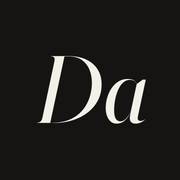
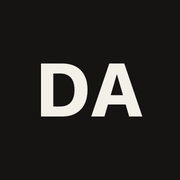
Add Tektur tech display face for key highlights
- Project names (chapters, case-study titles, next project, also shipped)
  set in Tektur uppercase; Midddleman keeps the full-width cut
- Hero facts become a stats band: OPEN, 4, 10,000+, AKURE as figures
  with supporting text underneath
- DA wordmark, chapter numbers, favicon and touch icon use the same face
- The emphasised phrase in each display headline (TO APP STORE.,
  THAT SHIPS., PEOPLE'S HANDS., TO LEADING MOBILE., NOBODY SCREENSHOTS)
  moves from serif italic to Tektur; the phrase stays on one line from
  600px up. Serif italic remains for taglines and pull quotes.

Changed region(s): [[0.1944, 0.3056, 0.8333, 0.6944]]

diff --git a/index.html b/index.html
@@ -24,10 +24,10 @@
 <link rel="apple-touch-icon" href="/assets/apple-touch-icon.png">
 <link rel="preconnect" href="https://fonts.googleapis.com">
 <link rel="preconnect" href="https://fonts.gstatic.com" crossorigin>
-<link rel="stylesheet" href="https://fonts.googleapis.com/css2?family=Geist:wght@300..700&family=Geist+Mono:wght@400;500&family=Instrument+Serif:ital@0;1&display=swap">
-<link rel="stylesheet" href="/assets/css/site.css?v=8b2077705b">
+<link rel="stylesheet" href="https://fonts.googleapis.com/css2?family=Geist:wght@300..700&family=Geist+Mono:wght@400;500&family=Instrument+Serif:ital@0;1&family=Tektur:wdth,wght@75..100,500..800&display=swap">
+<link rel="stylesheet" href="/assets/css/site.css?v=fa66dfbcfa">
 <script>document.documentElement.classList.add('js')</script>
-<script src="/assets/js/site.js?v=8b2077705b" defer></script>
+<script src="/assets/js/site.js?v=fa66dfbcfa" defer></script>
 <script type="application/ld+json">{"@context":"https://schema.org","@type":"Person","name":"Divine Ajayi","alternateName":"Ajayi Divine Iretomiwa","jobTitle":"Mobile Engineer","url":"https://divine-ajayi.vercel.app","address":{"@type":"PostalAddress","addressLocality":"Akure","addressCountry":"NG"},"sameAs":["https://linkedin.com/in/ajayi-divine","https://github.com/Justdivine7"],"knowsAbout":["Flutter","Dart","Kotlin","Mobile architecture","iOS","Android"]}</script>
 </head>
 <body class="home">
@@ -60,7 +60,7 @@
 <section class="hero" id="top" aria-labelledby="hero-title">
   <div class="wrap hero__grid">
     <p class="hero__eyebrow eyebrow" data-reveal><span>Divine Ajayi</span><span class="hero__sep" aria-hidden="true"></span><span>Mobile Engineer — Flutter &amp; Dart</span></p>
-    <h1 class="hero__title" id="hero-title" data-split><span class="w"><span style="--i:0">Mobile</span></span> <span class="w"><span style="--i:1">products,</span></span> <span class="w"><span style="--i:2">engineered</span></span> <span class="w"><span style="--i:3">from</span></span> <span class="w"><span style="--i:4">architecture</span></span> <span class="w"><span style="--i:5"><em>to</em></span></span> <span class="w"><span style="--i:6"><em>App</em></span></span> <span class="w"><span style="--i:7"><em>Store.</em></span></span></h1>
+    <h1 class="hero__title" id="hero-title" data-split><span class="w"><span style="--i:0">Mobile</span></span> <span class="w"><span style="--i:1">products,</span></span> <span class="w"><span style="--i:2">engineered</span></span> <span class="w"><span style="--i:3">from</span></span> <span class="w"><span style="--i:4">architecture</span></span> <span class="em-group"><span class="w"><span style="--i:5"><em>to</em></span></span> <span class="w"><span style="--i:6"><em>App</em></span></span> <span class="w"><span style="--i:7"><em>Store.</em></span></span></span></h1>
     <div class="hero__intro">
       <p class="hero__lede" data-reveal>I take production apps end to end — architecture, payments, real-time features, offline-ready data layers, and the release pipeline that gets them to real users on iOS and Android.</p>
       <div class="hero__actions" data-reveal>
@@ -72,15 +72,15 @@
       <a class="hero-shot hero-shot--back-r" href="/work/sanah/" data-parallax="-0.05" style="--d:0"><span class="visually-hidden">Sanah case study</span><figure class="shot shot--device "><div class="shot__frame"><img src="/assets/sanah/01-health-score.webp" alt="Sanah AI health score and personalized explanation" width="420" height="912" loading="eager" decoding="sync"></div></figure><span class="hero-shot__tag" aria-hidden="true">Sanah</span></a><a class="hero-shot hero-shot--back-l" href="/work/midddleman/" data-parallax="0.04" style="--d:1"><span class="visually-hidden">Midddleman case study</span><figure class="shot shot--poster "><div class="shot__frame"><img src="/assets/midddleman/02-buy-rmb.webp" alt="Buy RMB screen with today’s exchange rate and naira amount" width="300" height="650" loading="eager" decoding="sync"></div></figure><span class="hero-shot__tag" aria-hidden="true">Midddleman</span></a><a class="hero-shot hero-shot--front" href="/work/shmood/" data-parallax="-0.02" style="--d:2"><span class="visually-hidden">Shmood case study</span><figure class="shot shot--device "><div class="shot__frame"><img src="/assets/shmood/07-now-playing.webp" alt="Shmood now playing screen" width="420" height="912" loading="eager" decoding="sync" fetchpriority="high"></div></figure><span class="hero-shot__tag" aria-hidden="true">Shmood</span></a>
     </div>
     <dl class="hero__facts" data-reveal-group>
-      <div data-reveal><dt>Status</dt><dd><span class="status-dot" aria-hidden="true"></span>Open to international roles</dd></div>
-      <div data-reveal><dt>Live apps</dt><dd>4 on the App Store &amp; Google Play</dd></div><div data-reveal><dt>Installs</dt><dd>10,000+ across Midddleman &amp; Pawshauz</dd></div><div data-reveal><dt>Based in</dt><dd>Akure, Nigeria · Remote</dd></div>
+      <div data-reveal><dt>Status</dt><dd><span class="fact__n"><span class="status-dot" aria-hidden="true"></span>Open</span><span class="fact__v">to international roles</span></dd></div>
+      <div data-reveal><dt>Live apps</dt><dd><span class="fact__n">4</span> <span class="fact__v">on the App Store &amp; Google Play</span></dd></div><div data-reveal><dt>Installs</dt><dd><span class="fact__n">10,000+</span> <span class="fact__v">across Midddleman &amp; Pawshauz</span></dd></div><div data-reveal><dt>Based in</dt><dd><span class="fact__n">Akure</span> <span class="fact__v">Nigeria · open to remote</span></dd></div>
     </dl>
   </div>
 </section>
 <section class="work" id="work" aria-labelledby="work-title">
   <header class="wrap section-head section-head--work">
     <p class="eyebrow" data-reveal>Selected work · 2025 — 2026</p>
-    <h2 class="section-title" id="work-title" data-split><span class="w"><span style="--i:0">Products</span></span> <span class="w"><span style="--i:1">in</span></span> <span class="w"><span style="--i:2"><em>people’s</em></span></span> <span class="w"><span style="--i:3"><em>hands.</em></span></span></h2>
+    <h2 class="section-title" id="work-title" data-split><span class="w"><span style="--i:0">Products</span></span> <span class="w"><span style="--i:1">in</span></span> <span class="em-group"><span class="w"><span style="--i:2"><em>people’s</em></span></span> <span class="w"><span style="--i:3"><em>hands.</em></span></span></span></h2>
     <p class="section-lede" data-reveal>Fintech, marketplaces, delivery and AI — live in the stores or in testing ahead of launch. Where a product was built by a team, I say exactly which parts were mine.</p>
   </header>
   <article class="chapter chapter--posters stage" style="--c-bg:#0F2419;--c-fg:#EEF2E6;--c-muted:#A9B8A4;--c-accent:#B9E35C;--c-panel:#183527" aria-labelledby="t-midddleman">
@@ -319,7 +319,7 @@
   <div class="wrap">
     <header class="section-head">
       <p class="eyebrow" data-reveal>Experience</p>
-      <h2 class="section-title" id="exp-title" data-split><span class="w"><span style="--i:0">From</span></span> <span class="w"><span style="--i:1">internship</span></span> <span class="w"><span style="--i:2">finalist</span></span> <span class="w"><span style="--i:3"><em>to</em></span></span> <span class="w"><span style="--i:4"><em>leading</em></span></span> <span class="w"><span style="--i:5"><em>mobile.</em></span></span></h2>
+      <h2 class="section-title" id="exp-title" data-split><span class="w"><span style="--i:0">From</span></span> <span class="w"><span style="--i:1">internship</span></span> <span class="w"><span style="--i:2">finalist</span></span> <span class="em-group"><span class="w"><span style="--i:3"><em>to</em></span></span> <span class="w"><span style="--i:4"><em>leading</em></span></span> <span class="w"><span style="--i:5"><em>mobile.</em></span></span></span></h2>
       <p class="section-lede" data-reveal>Six roles since February 2025 — from intern to mentor to lead, each with more of the product, and more of the release, in my hands.</p>
     </header>
     <figure class="tl" data-reveal style="--cols:22">
@@ -408,7 +408,7 @@
   <div class="wrap">
     <div class="about__grid">
       <p class="eyebrow" data-reveal>About</p>
-      <h2 class="about__statement" id="about-title" data-split><span class="w"><span style="--i:0">I</span></span> <span class="w"><span style="--i:1">care</span></span> <span class="w"><span style="--i:2">most</span></span> <span class="w"><span style="--i:3">about</span></span> <span class="w"><span style="--i:4">the</span></span> <span class="w"><span style="--i:5">parts</span></span> <span class="w"><span style="--i:6">of</span></span> <span class="w"><span style="--i:7">an</span></span> <span class="w"><span style="--i:8">app</span></span> <span class="w"><span style="--i:8"><em>nobody</em></span></span> <span class="w"><span style="--i:9"><em>screenshots</em></span></span> <span class="w"><span style="--i:10">—</span></span> <span class="w"><span style="--i:11">the</span></span> <span class="w"><span style="--i:12">architecture,</span></span> <span class="w"><span style="--i:13">the</span></span> <span class="w"><span style="--i:14">failure</span></span> <span class="w"><span style="--i:15">states,</span></span> <span class="w"><span style="--i:16">the</span></span> <span class="w"><span style="--i:17">release.</span></span></h2>
+      <h2 class="about__statement" id="about-title" data-split><span class="w"><span style="--i:0">I</span></span> <span class="w"><span style="--i:1">care</span></span> <span class="w"><span style="--i:2">most</span></span> <span class="w"><span style="--i:3">about</span></span> <span class="w"><span style="--i:4">the</span></span> <span class="w"><span style="--i:5">parts</span></span> <span class="w"><span style="--i:6">of</span></span> <span class="w"><span style="--i:7">an</span></span> <span class="w"><span style="--i:8">app</span></span> <span class="em-group"><span class="w"><span style="--i:8"><em>nobody</em></span></span> <span class="w"><span style="--i:9"><em>screenshots</em></span></span></span> <span class="w"><span style="--i:10">—</span></span> <span class="w"><span style="--i:11">the</span></span> <span class="w"><span style="--i:12">architecture,</span></span> <span class="w"><span style="--i:13">the</span></span> <span class="w"><span style="--i:14">failure</span></span> <span class="w"><span style="--i:15">states,</span></span> <span class="w"><span style="--i:16">the</span></span> <span class="w"><span style="--i:17">release.</span></span></h2>
       <div class="about__bio" data-reveal-group>
         <p data-reveal>I’m a Flutter and Dart engineer based in Akure, Nigeria. Today I lead mobile development at Midddleman Technologies, where I own the release pipeline and the layers that keep the customer and agent apps dependable. Before that I was the sole mobile engineer at Jamforte Technologies, shipping Pawshauz and Difamer, and I’ve built delivery and sports apps on contract. In 2026 I went back to the HNG Internship as a Flutter mentor.</p>
         <p data-reveal>Alongside that I build AI-native products — Shmood and Sanah — to push on what a mobile app can do with voice, vision and language models, without letting a model make things up.</p>
@@ -431,7 +431,7 @@
 <section class="contact" id="contact" aria-labelledby="contact-title">
   <div class="wrap">
     <p class="eyebrow eyebrow--light" data-reveal>Contact</p>
-    <h2 class="contact__title" id="contact-title" data-split><span class="w"><span style="--i:0">Let’s</span></span> <span class="w"><span style="--i:1">build</span></span> <span class="w"><span style="--i:2">something</span></span> <span class="w"><span style="--i:3"><em>that</em></span></span> <span class="w"><span style="--i:4"><em>ships.</em></span></span></h2>
+    <h2 class="contact__title" id="contact-title" data-split><span class="w"><span style="--i:0">Let’s</span></span> <span class="w"><span style="--i:1">build</span></span> <span class="w"><span style="--i:2">something</span></span> <span class="em-group"><span class="w"><span style="--i:3"><em>that</em></span></span> <span class="w"><span style="--i:4"><em>ships.</em></span></span></span></h2>
     <div class="contact__grid">
       <p class="contact__lede" data-reveal>I’m open to meaningful engineering roles — international and remote included — and to collaborating on mobile products that need to be built well and keep working once they ship.</p>
       <div class="contact__primary" data-reveal>

diff --git a/assets/css/site.css b/assets/css/site.css
@@ -1200,3 +1200,68 @@ body.case-page.menu-open .site-header .menu-toggle { background: var(--ink); col
   .next-case__tag { font-size: 1.125rem; }
   .menu__list a { font-size: clamp(2rem, 9vw, 2.75rem); }
 }
+
+/* ==========================================================================
+   Tech display face (Tektur) — reserved for the things that matter most:
+   product names, headline figures, the wordmark and chapter numbers.
+   ========================================================================== */
+:root { --tech: 'Tektur', 'Eurostile', 'Bank Gothic', var(--sans); }
+
+.wordmark__mark { font-family: var(--tech); font-style: normal; font-weight: 700; font-size: 0.8125rem; letter-spacing: 0.02em; font-stretch: 90%; }
+
+/* product names */
+.chapter__title, .case-hero__title, .next-case__name, .more__name {
+  font-family: var(--tech);
+  font-weight: 700;
+  font-stretch: 85%;
+  text-transform: uppercase;
+  letter-spacing: -0.01em;
+}
+.chapter__title { font-size: clamp(2.5rem, 5.8vw, 5.25rem); line-height: 0.9; }
+.chapter--posters .chapter__title { font-size: clamp(3.25rem, 11.5vw, 10.5rem); line-height: 0.84; font-stretch: 100%; letter-spacing: -0.02em; }
+.case-hero__title { font-size: clamp(3rem, 9.5vw, 9rem); line-height: 0.86; }
+.next-case__name { font-size: clamp(2.5rem, 7.5vw, 7rem); line-height: 0.9; }
+.more__name { font-weight: 600; font-size: clamp(1.625rem, 3vw, 2.5rem); letter-spacing: 0; }
+.chapter__title a { background-position: 0 100%; }
+
+/* chapter numbers */
+.chapter__index { font-family: var(--tech); font-weight: 700; font-size: 0.9375rem; letter-spacing: 0.02em; color: var(--c-accent); }
+.chapter--companion .chapter__index, .chapter--pipeline .chapter__index, .chapter--strip .chapter__index, .chapter--triptych .chapter__index { color: var(--c-fg); }
+
+/* headline figures */
+.hero__facts dd { display: grid; gap: 0.2rem; align-items: start; }
+.fact__n {
+  display: inline-flex; align-items: center;
+  font-family: var(--tech); font-weight: 700; font-stretch: 90%;
+  font-size: clamp(1.75rem, 2.6vw, 2.5rem); line-height: 1; letter-spacing: -0.01em;
+  text-transform: uppercase; font-variant-numeric: tabular-nums;
+}
+.fact__n .status-dot { width: 10px; height: 10px; margin-right: 0.45em; }
+.fact__v { font-weight: 400; font-size: 0.875rem; color: var(--ink-2); }
+
+@media (max-width: 599px) {
+  .chapter__title { font-size: clamp(2rem, 9.5vw, 2.5rem); }
+  .chapter--posters .chapter__title { font-size: clamp(2.625rem, 13vw, 3.375rem); }
+  .case-hero__title { font-size: clamp(2.375rem, 12vw, 3.125rem); }
+  .next-case__name { font-size: clamp(2rem, 10vw, 2.75rem); }
+  .more__name { font-size: 1.5rem; }
+  .fact__n { font-size: 1.625rem; }
+  .fact__v { font-size: 0.8125rem; }
+}
+
+/* Headline accents: the emphasised phrase of each display headline lands in the tech face.
+   (The serif italic stays for taglines, pull quotes and "next project" lines.) */
+.hero__title em, .section-title em, .contact__title em, .about__statement em {
+  font-family: var(--tech);
+  font-style: normal;
+  font-weight: 700;
+  font-stretch: 85%;
+  text-transform: uppercase;
+  letter-spacing: -0.005em;
+  font-size: 0.9em;
+}
+.hero__title em { color: var(--ink); }
+.section-title em { color: var(--ink); }
+.contact__title em { color: #e9b38f; }
+.about__statement em { font-size: 0.86em; color: var(--accent); }
+@media (min-width: 600px) { .em-group { white-space: nowrap; } }

diff --git a/work/midddleman-agent/index.html b/work/midddleman-agent/index.html
@@ -24,10 +24,10 @@
 <link rel="apple-touch-icon" href="/assets/apple-touch-icon.png">
 <link rel="preconnect" href="https://fonts.googleapis.com">
 <link rel="preconnect" href="https://fonts.gstatic.com" crossorigin>
-<link rel="stylesheet" href="https://fonts.googleapis.com/css2?family=Geist:wght@300..700&family=Geist+Mono:wght@400;500&family=Instrument+Serif:ital@0;1&display=swap">
-<link rel="stylesheet" href="/assets/css/site.css?v=8b2077705b">
+<link rel="stylesheet" href="https://fonts.googleapis.com/css2?family=Geist:wght@300..700&family=Geist+Mono:wght@400;500&family=Instrument+Serif:ital@0;1&family=Tektur:wdth,wght@75..100,500..800&display=swap">
+<link rel="stylesheet" href="/assets/css/site.css?v=fa66dfbcfa">
 <script>document.documentElement.classList.add('js')</script>
-<script src="/assets/js/site.js?v=8b2077705b" defer></script>
+<script src="/assets/js/site.js?v=fa66dfbcfa" defer></script>
 
 </head>
 <body class="case-page case-page--light" style="--c-bg:#E4EBD2;--c-fg:#13241A;--c-muted:#4D5E4F;--c-accent:#2F6B3E;--c-panel:#D5E1BC;--native:300px">
@@ -139,7 +139,7 @@
 <section class="contact" id="contact" aria-labelledby="contact-title">
   <div class="wrap">
     <p class="eyebrow eyebrow--light" data-reveal>Contact</p>
-    <h2 class="contact__title" id="contact-title" data-split><span class="w"><span style="--i:0">Let’s</span></span> <span class="w"><span style="--i:1">build</span></span> <span class="w"><span style="--i:2">something</span></span> <span class="w"><span style="--i:3"><em>that</em></span></span> <span class="w"><span style="--i:4"><em>ships.</em></span></span></h2>
+    <h2 class="contact__title" id="contact-title" data-split><span class="w"><span style="--i:0">Let’s</span></span> <span class="w"><span style="--i:1">build</span></span> <span class="w"><span style="--i:2">something</span></span> <span class="em-group"><span class="w"><span style="--i:3"><em>that</em></span></span> <span class="w"><span style="--i:4"><em>ships.</em></span></span></span></h2>
     <div class="contact__grid">
       <p class="contact__lede" data-reveal>I’m open to meaningful engineering roles — international and remote included — and to collaborating on mobile products that need to be built well and keep working once they ship.</p>
       <div class="contact__primary" data-reveal>

diff --git a/work/ofxpress/index.html b/work/ofxpress/index.html
@@ -24,10 +24,10 @@
 <link rel="apple-touch-icon" href="/assets/apple-touch-icon.png">
 <link rel="preconnect" href="https://fonts.googleapis.com">
 <link rel="preconnect" href="https://fonts.gstatic.com" crossorigin>
-<link rel="stylesheet" href="https://fonts.googleapis.com/css2?family=Geist:wght@300..700&family=Geist+Mono:wght@400;500&family=Instrument+Serif:ital@0;1&display=swap">
-<link rel="stylesheet" href="/assets/css/site.css?v=8b2077705b">
+<link rel="stylesheet" href="https://fonts.googleapis.com/css2?family=Geist:wght@300..700&family=Geist+Mono:wght@400;500&family=Instrument+Serif:ital@0;1&family=Tektur:wdth,wght@75..100,500..800&display=swap">
+<link rel="stylesheet" href="/assets/css/site.css?v=fa66dfbcfa">
 <script>document.documentElement.classList.add('js')</script>
-<script src="/assets/js/site.js?v=8b2077705b" defer></script>
+<script src="/assets/js/site.js?v=fa66dfbcfa" defer></script>
 
 </head>
 <body class="case-page case-page--light" style="--c-bg:#ECE6F2;--c-fg:#1C1524;--c-muted:#62566F;--c-accent:#6D3FB0;--c-panel:#E0D7EA;--native:180px">
@@ -139,7 +139,7 @@
 <section class="contact" id="contact" aria-labelledby="contact-title">
   <div class="wrap">
     <p class="eyebrow eyebrow--light" data-reveal>Contact</p>
-    <h2 class="contact__title" id="contact-title" data-split><span class="w"><span style="--i:0">Let’s</span></span> <span class="w"><span style="--i:1">build</span></span> <span class="w"><span style="--i:2">something</span></span> <span class="w"><span style="--i:3"><em>that</em></span></span> <span class="w"><span style="--i:4"><em>ships.</em></span></span></h2>
+    <h2 class="contact__title" id="contact-title" data-split><span class="w"><span style="--i:0">Let’s</span></span> <span class="w"><span style="--i:1">build</span></span> <span class="w"><span style="--i:2">something</span></span> <span class="em-group"><span class="w"><span style="--i:3"><em>that</em></span></span> <span class="w"><span style="--i:4"><em>ships.</em></span></span></span></h2>
     <div class="contact__grid">
       <p class="contact__lede" data-reveal>I’m open to meaningful engineering roles — international and remote included — and to collaborating on mobile products that need to be built well and keep working once they ship.</p>
       <div class="contact__primary" data-reveal>

diff --git a/work/pawshauz/index.html b/work/pawshauz/index.html
@@ -24,10 +24,10 @@
 <link rel="apple-touch-icon" href="/assets/apple-touch-icon.png">
 <link rel="preconnect" href="https://fonts.googleapis.com">
 <link rel="preconnect" href="https://fonts.gstatic.com" crossorigin>
-<link rel="stylesheet" href="https://fonts.googleapis.com/css2?family=Geist:wght@300..700&family=Geist+Mono:wght@400;500&family=Instrument+Serif:ital@0;1&display=swap">
-<link rel="stylesheet" href="/assets/css/site.css?v=8b2077705b">
+<link rel="stylesheet" href="https://fonts.googleapis.com/css2?family=Geist:wght@300..700&family=Geist+Mono:wght@400;500&family=Instrument+Serif:ital@0;1&family=Tektur:wdth,wght@75..100,500..800&display=swap">
+<link rel="stylesheet" href="/assets/css/site.css?v=fa66dfbcfa">
 <script>document.documentElement.classList.add('js')</script>
-<script src="/assets/js/site.js?v=8b2077705b" defer></script>
+<script src="/assets/js/site.js?v=fa66dfbcfa" defer></script>
 
 </head>
 <body class="case-page case-page--light" style="--c-bg:#F2E6D6;--c-fg:#1E1712;--c-muted:#6C5D50;--c-accent:#D9581E;--c-panel:#E8D7C2;--native:180px">
@@ -142,7 +142,7 @@
 <section class="contact" id="contact" aria-labelledby="contact-title">
   <div class="wrap">
     <p class="eyebrow eyebrow--light" data-reveal>Contact</p>
-    <h2 class="contact__title" id="contact-title" data-split><span class="w"><span style="--i:0">Let’s</span></span> <span class="w"><span style="--i:1">build</span></span> <span class="w"><span style="--i:2">something</span></span> <span class="w"><span style="--i:3"><em>that</em></span></span> <span class="w"><span style="--i:4"><em>ships.</em></span></span></h2>
+    <h2 class="contact__title" id="contact-title" data-split><span class="w"><span style="--i:0">Let’s</span></span> <span class="w"><span style="--i:1">build</span></span> <span class="w"><span style="--i:2">something</span></span> <span class="em-group"><span class="w"><span style="--i:3"><em>that</em></span></span> <span class="w"><span style="--i:4"><em>ships.</em></span></span></span></h2>
     <div class="contact__grid">
       <p class="contact__lede" data-reveal>I’m open to meaningful engineering roles — international and remote included — and to collaborating on mobile products that need to be built well and keep working once they ship.</p>
       <div class="contact__primary" data-reveal>

diff --git a/work/sanah/index.html b/work/sanah/index.html
@@ -24,10 +24,10 @@
 <link rel="apple-touch-icon" href="/assets/apple-touch-icon.png">
 <link rel="preconnect" href="https://fonts.googleapis.com">
 <link rel="preconnect" href="https://fonts.gstatic.com" crossorigin>
-<link rel="stylesheet" href="https://fonts.googleapis.com/css2?family=Geist:wght@300..700&family=Geist+Mono:wght@400;500&family=Instrument+Serif:ital@0;1&display=swap">
-<link rel="stylesheet" href="/assets/css/site.css?v=8b2077705b">
+<link rel="stylesheet" href="https://fonts.googleapis.com/css2?family=Geist:wght@300..700&family=Geist+Mono:wght@400;500&family=Instrument+Serif:ital@0;1&family=Tektur:wdth,wght@75..100,500..800&display=swap">
+<link rel="stylesheet" href="/assets/css/site.css?v=fa66dfbcfa">
 <script>document.documentElement.classList.add('js')</script>
-<script src="/assets/js/site.js?v=8b2077705b" defer></script>
+<script src="/assets/js/site.js?v=fa66dfbcfa" defer></script>
 
 </head>
 <body class="case-page case-page--light" style="--c-bg:#EDE0CF;--c-fg:#23170F;--c-muted:#6E5A49;--c-accent:#C2501F;--c-panel:#E2D0BA;--native:420px">
@@ -142,7 +142,7 @@
 <section class="contact" id="contact" aria-labelledby="contact-title">
   <div class="wrap">
     <p class="eyebrow eyebrow--light" data-reveal>Contact</p>
-    <h2 class="contact__title" id="contact-title" data-split><span class="w"><span style="--i:0">Let’s</span></span> <span class="w"><span style="--i:1">build</span></span> <span class="w"><span style="--i:2">something</span></span> <span class="w"><span style="--i:3"><em>that</em></span></span> <span class="w"><span style="--i:4"><em>ships.</em></span></span></h2>
+    <h2 class="contact__title" id="contact-title" data-split><span class="w"><span style="--i:0">Let’s</span></span> <span class="w"><span style="--i:1">build</span></span> <span class="w"><span style="--i:2">something</span></span> <span class="em-group"><span class="w"><span style="--i:3"><em>that</em></span></span> <span class="w"><span style="--i:4"><em>ships.</em></span></span></span></h2>
     <div class="contact__grid">
       <p class="contact__lede" data-reveal>I’m open to meaningful engineering roles — international and remote included — and to collaborating on mobile products that need to be built well and keep working once they ship.</p>
       <div class="contact__primary" data-reveal>

diff --git a/work/midddleman/index.html b/work/midddleman/index.html
@@ -24,10 +24,10 @@
 <link rel="apple-touch-icon" href="/assets/apple-touch-icon.png">
 <link rel="preconnect" href="https://fonts.googleapis.com">
 <link rel="preconnect" href="https://fonts.gstatic.com" crossorigin>
-<link rel="stylesheet" href="https://fonts.googleapis.com/css2?family=Geist:wght@300..700&family=Geist+Mono:wght@400;500&family=Instrument+Serif:ital@0;1&display=swap">
-<link rel="stylesheet" href="/assets/css/site.css?v=8b2077705b">
+<link rel="stylesheet" href="https://fonts.googleapis.com/css2?family=Geist:wght@300..700&family=Geist+Mono:wght@400;500&family=Instrument+Serif:ital@0;1&family=Tektur:wdth,wght@75..100,500..800&display=swap">
+<link rel="stylesheet" href="/assets/css/site.css?v=fa66dfbcfa">
 <script>document.documentElement.classList.add('js')</script>
-<script src="/assets/js/site.js?v=8b2077705b" defer></script>
+<script src="/assets/js/site.js?v=fa66dfbcfa" defer></script>
 
 </head>
 <body class="case-page case-page--dark" style="--c-bg:#0F2419;--c-fg:#EEF2E6;--c-muted:#A9B8A4;--c-accent:#B9E35C;--c-panel:#183527;--native:300px">
@@ -139,7 +139,7 @@
 <section class="contact" id="contact" aria-labelledby="contact-title">
   <div class="wrap">
     <p class="eyebrow eyebrow--light" data-reveal>Contact</p>
-    <h2 class="contact__title" id="contact-title" data-split><span class="w"><span style="--i:0">Let’s</span></span> <span class="w"><span style="--i:1">build</span></span> <span class="w"><span style="--i:2">something</span></span> <span class="w"><span style="--i:3"><em>that</em></span></span> <span class="w"><span style="--i:4"><em>ships.</em></span></span></h2>
+    <h2 class="contact__title" id="contact-title" data-split><span class="w"><span style="--i:0">Let’s</span></span> <span class="w"><span style="--i:1">build</span></span> <span class="w"><span style="--i:2">something</span></span> <span class="em-group"><span class="w"><span style="--i:3"><em>that</em></span></span> <span class="w"><span style="--i:4"><em>ships.</em></span></span></span></h2>
     <div class="contact__grid">
       <p class="contact__lede" data-reveal>I’m open to meaningful engineering roles — international and remote included — and to collaborating on mobile products that need to be built well and keep working once they ship.</p>
       <div class="contact__primary" data-reveal>

diff --git a/work/shmood/index.html b/work/shmood/index.html
@@ -24,10 +24,10 @@
 <link rel="apple-touch-icon" href="/assets/apple-touch-icon.png">
 <link rel="preconnect" href="https://fonts.googleapis.com">
 <link rel="preconnect" href="https://fonts.gstatic.com" crossorigin>
-<link rel="stylesheet" href="https://fonts.googleapis.com/css2?family=Geist:wght@300..700&family=Geist+Mono:wght@400;500&family=Instrument+Serif:ital@0;1&display=swap">
-<link rel="stylesheet" href="/assets/css/site.css?v=8b2077705b">
+<link rel="stylesheet" href="https://fonts.googleapis.com/css2?family=Geist:wght@300..700&family=Geist+Mono:wght@400;500&family=Instrument+Serif:ital@0;1&family=Tektur:wdth,wght@75..100,500..800&display=swap">
+<link rel="stylesheet" href="/assets/css/site.css?v=fa66dfbcfa">
 <script>document.documentElement.classList.add('js')</script>
-<script src="/assets/js/site.js?v=8b2077705b" defer></script>
+<script src="/assets/js/site.js?v=fa66dfbcfa" defer></script>
 
 </head>
 <body class="case-page case-page--dark" style="--c-bg:#0A0E18;--c-fg:#E8EAF2;--c-muted:#9298AE;--c-accent:#9DB0FF;--c-panel:#131A2B;--native:420px">
@@ -142,7 +142,7 @@
 <section class="contact" id="contact" aria-labelledby="contact-title">
   <div class="wrap">
     <p class="eyebrow eyebrow--light" data-reveal>Contact</p>
-    <h2 class="contact__title" id="contact-title" data-split><span class="w"><span style="--i:0">Let’s</span></span> <span class="w"><span style="--i:1">build</span></span> <span class="w"><span style="--i:2">something</span></span> <span class="w"><span style="--i:3"><em>that</em></span></span> <span class="w"><span style="--i:4"><em>ships.</em></span></span></h2>
+    <h2 class="contact__title" id="contact-title" data-split><span class="w"><span style="--i:0">Let’s</span></span> <span class="w"><span style="--i:1">build</span></span> <span class="w"><span style="--i:2">something</span></span> <span class="em-group"><span class="w"><span style="--i:3"><em>that</em></span></span> <span class="w"><span style="--i:4"><em>ships.</em></span></span></span></h2>
     <div class="contact__grid">
       <p class="contact__lede" data-reveal>I’m open to meaningful engineering roles — international and remote included — and to collaborating on mobile products that need to be built well and keep working once they ship.</p>
       <div class="contact__primary" data-reveal>

diff --git a/404.html b/404.html
@@ -24,10 +24,10 @@
 <link rel="apple-touch-icon" href="/assets/apple-touch-icon.png">
 <link rel="preconnect" href="https://fonts.googleapis.com">
 <link rel="preconnect" href="https://fonts.gstatic.com" crossorigin>
-<link rel="stylesheet" href="https://fonts.googleapis.com/css2?family=Geist:wght@300..700&family=Geist+Mono:wght@400;500&family=Instrument+Serif:ital@0;1&display=swap">
-<link rel="stylesheet" href="/assets/css/site.css?v=8b2077705b">
+<link rel="stylesheet" href="https://fonts.googleapis.com/css2?family=Geist:wght@300..700&family=Geist+Mono:wght@400;500&family=Instrument+Serif:ital@0;1&family=Tektur:wdth,wght@75..100,500..800&display=swap">
+<link rel="stylesheet" href="/assets/css/site.css?v=fa66dfbcfa">
 <script>document.documentElement.classList.add('js')</script>
-<script src="/assets/js/site.js?v=8b2077705b" defer></script>
+<script src="/assets/js/site.js?v=fa66dfbcfa" defer></script>
 
 </head>
 <body class="nf-page">

diff --git a/scripts/og.py b/scripts/og.py
@@ -55,8 +55,8 @@ img.save(A('og.png'), optimize=True)
 
 icon = Image.new('RGB', (360, 360), INK)
 di = ImageDraw.Draw(icon)
-f = ImageFont.truetype('/System/Library/Fonts/NewYorkItalic.ttf', 190)
-bb = di.textbbox((0, 0), 'Da', font=f)
-di.text(((360 - (bb[2] - bb[0])) / 2 - bb[0], (360 - (bb[3] - bb[1])) / 2 - bb[1]), 'Da', font=f, fill=PAPER)
+f = sf(150, 800)  # matches the squared, heavy 'DA' wordmark
+bb = di.textbbox((0, 0), 'DA', font=f)
+di.text(((360 - (bb[2] - bb[0])) / 2 - bb[0], (360 - (bb[3] - bb[1])) / 2 - bb[1]), 'DA', font=f, fill=PAPER)
 icon.resize((180, 180), Image.LANCZOS).save(A('apple-touch-icon.png'), optimize=True)
 print('ok', os.path.getsize(A('og.png')))
